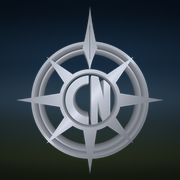
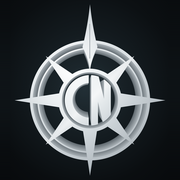
White rose on black, one asset everywhere (cn-v908)
Erik's own export — cn-dome-white-black.png, white metal on his black
radial — becomes THE app icon, built square by replicating its
near-black edges (seamless; luminance 10-18 all around). Every surface
now wears that one asset: icons/favicon/maskable (76% for the circle
crop), the dock's CN tile (rounded like the org-logo branch), and the
login tile IS the icon. Launch splash background goes to the icon's
ground (#0b0f12) so the tile doesn't float on a white flash. The dusk
lake retires from the app (masters stay in CN Logo/exports); the
silver intermediate is gone; cn-logo.svg stays as the steel mark for
light grounds.

diff --git a/src/app/login/page.tsx b/src/app/login/page.tsx
@@ -38,17 +38,11 @@ export default async function LoginPage({
     <div className="flex min-h-screen items-center justify-center bg-gradient-to-br from-brand to-brand-dark px-4">
       <div className="w-full max-w-md">
         <div className="mb-8 text-center text-white">
-          {/* THE LAKE BACKDROP, dusk cut (Erik picked the lake off a Preview roll-over; the dusk
-              dim + SILVER mark is the iOS-tinted-mode lesson — icons are re-rendered by
-              luminance, so the mark must be the bright thing). Same wash the app icons bake
-              in, so tile and home-screen icon match. */}
-          <div
-            className="mx-auto mb-3 flex h-16 w-16 items-center justify-center rounded-2xl shadow-lg ring-1 ring-white/15"
-            style={{ background: "linear-gradient(180deg, #081320 0%, #162A3E 34%, #2A3F4F 55%, #253133 72%, #262E1F 86%, #191E13 100%)" }}
-          >
-            {/* eslint-disable-next-line @next/next/no-img-element */}
-            <img src="/cn-logo-silver.png" alt="Contractor North" className="h-full w-full object-contain" />
-          </div>
+          {/* The tile IS the app icon — Erik's white-rose-on-black export, one asset shared with
+              the home screen and the dock (the iOS tinted-mode lesson: the mark must be the
+              bright thing on a dark ground). */}
+          {/* eslint-disable-next-line @next/next/no-img-element */}
+          <img src="/icon-192.png" alt="Contractor North" className="mx-auto mb-3 h-16 w-16 rounded-2xl shadow-lg ring-1 ring-white/15" />
           <h1 className="text-2xl font-bold tracking-tight">Contractor North</h1>
           <p className="mt-1 text-sm text-white/80">The all-in-one platform for contractors</p>
           <p className="mt-2 text-[11px] font-medium tracking-wider text-white/40">{APP_VERSION}</p>

diff --git a/src/components/app-shell/dock.tsx b/src/components/app-shell/dock.tsx
@@ -64,8 +64,10 @@ function DockInner({ branding, role, badges }: DockProps) {
               // eslint-disable-next-line @next/next/no-img-element
               <img src={logo} alt="" className="h-10 w-10 rounded-xl object-contain" />
             ) : (
+              // The app icon itself (white rose on its black ground), as a tile like the org-logo
+              // branch above — same asset the home screen and login tile wear.
               // eslint-disable-next-line @next/next/no-img-element
-              <img src="/cn-logo.svg" alt="" className="h-9 w-9" />
+              <img src="/icon-192.png" alt="" className="h-10 w-10 rounded-xl" />
             )}
           </Link>
           <div className="flex flex-1 flex-col items-center gap-0.5 overflow-y-auto">

diff --git a/public/sw.js b/public/sw.js
@@ -4,7 +4,7 @@
 // so a SW bug can't trap users on old code. We only cache hashed/immutable
 // static assets and an offline fallback page. API and auth requests are never
 // touched. Bump VERSION to invalidate the static cache.
-const VERSION = "cn-v907";
+const VERSION = "cn-v908";
 const STATIC_CACHE = `static-${VERSION}`;
 // Pages visited while online, kept so a dead zone shows the real page instead of /offline.
 // SEPARATE from the static cache because it holds ORG DATA and has to be purgeable on sign-out.

diff --git a/src/app/manifest.ts b/src/app/manifest.ts
@@ -9,7 +9,9 @@ export default function manifest(): MetadataRoute.Manifest {
     scope: "/",
     display: "standalone",
     orientation: "portrait",
-    background_color: "#ffffff",
+    // The launch splash paints this behind the icon — the icon's own black ground, so the
+    // tile doesn't sit on a white flash.
+    background_color: "#0b0f12",
     theme_color: "#0b57c4",
     icons: [
       { src: "/icon-192.png", sizes: "192x192", type: "image/png", purpose: "any" },

diff --git a/src/lib/version.ts b/src/lib/version.ts
@@ -1,4 +1,4 @@
 // The current app version — kept in lockstep with the service-worker VERSION in public/sw.js.
 // Shown small on the login screen so we can SEE which build a device is actually running
 // (the recurring "is this the fresh code or the stale cache?" question).
-export const APP_VERSION = "cn-v907";
+export const APP_VERSION = "cn-v908";
